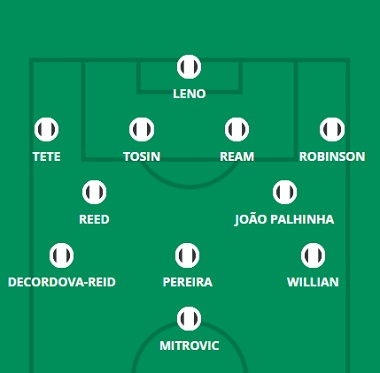
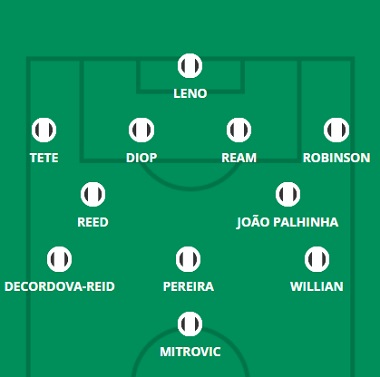
14-20

diff --git a/wolves.html b/wolves.html
@@ -63,15 +63,15 @@
     <hgroup>
         <h1> Provável Escalação</h1>
         <h2 class="direita"> por FabioVascão </h2>
-        <h3 class="direita"> Atualizado em 03/Fevereiro/2023 </h3>
+        <h3 class="direita"> Atualizado em 10/Fevereiro/2023 </h3>
     </hgroup>
 
     <div class="selecao"><p><b><img src="images/logos/wolverhampton.png" width="100rem" height="100rem"/> Wolverhampton</b></p></div>
        
     <div class="escalacao">
         <div class="topo">
-            <h2 class="titulo">Ultimas Notícias</h2> <h4><p> Julen Lopetegui estará novamente sem Boubacar Traore (coxa), Pedro Neto (tornozelo), Chiquinho (joelho) e Sasa Kalajdzic (joelho) na Jornada 22, mas não tem novas preocupações na visita ao Liverpool. O técnico do Wolves tem muitas opções de escolha graças à atividade de transferência de sua equipe em janeiro, embora tenha enfatizado que o último de seus recém-chegados - João Gomes - exigirá algum tempo de adaptação. Matheus Cunha e o em forma Daniel Podence certamente entrarão em jogo após surpresas no Etihad há quinze dias, enquanto Lopetegui poderia reformular completamente sua última linha de frente ao introduzir também Pablo Sarabia desde o pontapé inicial. Mário Lemina e João Moutinho são as opções ao lado de Ruben Neves e Matheus Nunes caso Gomes não esteja pronto, enquanto há uma boa chance de Craig Dawson fazer sua estreia completa, com Max Kilman muito abaixo dos altos patamares que estabeleceu no passado meio-campo.</p></h4><br>
-            <h4><strong>Dúvidas:</strong>Kalajdzic, Neto (Pedro), Chiquinho e Traoré (Boubacar).</h4>
+            <h2 class="titulo">Ultimas Notícias</h2> <h4><p> Julen Lopetegui vai voltar a não poder contar com Boubacar Traore (coxa), Chiquinho (joelho) e Sasa Kalajdzic (joelho) na jornada 23, mas Pedro Neto (tornozelo) está em forma após um longo período de paragem e pode entrar na equipa da jornada após o seu regresso a treinamento. Lopetegui pode receber um corpo de volta, mas pode ficar sem dois de seus titulares na Gameweek 22, com Hwang Hee-chan (tendão da coxa) agora fora por 4-5 semanas e Mario Lemina (knock) "melhor", mas ainda enfrentando avaliação antes do Jogo do Southampton. Adama Traore certamente impressionou ao substituir Hwang na vitória sobre o Liverpool, para que ele pudesse acertar no flanco direito, mas Raul Jimenez e Daniel Podence também poderiam ser acomodados com uma pequena reformulação tática. Lopetegui surpreendentemente enviou suas tropas em um 4-4-2 para a demolição do lado de Jurgen Klopp, mas poderia voltar ao seu habitual 4-3-3/4-2-3-1 aqui, com quaisquer dois de Traore, Pablo Sarabia e Podence flanqueando Matheus Cunha. João Moutinho e o novo garoto João Gomes são os possíveis substitutos de Lemina, se necessário, com Gomes sendo o substituto mais parecido, mas mesmo assim sem nenhum tempo de jogo desde novembro, após sua transferência do Flamengo. Um placar limpo contra os Reds normalmente sugere que uma mudança para a defesa é improvável, mas Hugo Bueno (e seus donos da FPL) se apega à esperança de que a promoção de Rayan Ait-Nouri ao XI titular tenha mais a ver com o último reputação de especialista em Salah.</p></h4><br>
+            <h4><strong>Dúvidas:</strong> Hwang Hee-Chan, Lemina,Kalajdzic, Neto (Pedro), Chiquinho e Traoré (Boubacar).</h4>
         </div>
         <aside>
             <figure>

diff --git a/fulham.html b/fulham.html
@@ -63,15 +63,15 @@
     <hgroup>
         <h1> Provável Escalação</h1>
         <h2 class="direita"> por FabioVascão </h2>
-        <h3 class="direita"> Atualizado em 03/Feveiro/2023 </h3>
+        <h3 class="direita"> Atualizado em 10/Feveiro/2023 </h3>
     </hgroup>
 
     <div class="selecao"><p><b><img src="images/logos/fulham.png" width="80rem" height="90rem"/> Fulham</b></p></div>
        
     <div class="escalacao">
         <div class="topo">
-            <h2 class="titulo">Ultimas Notícias</h2> <h4><p> Marco Silva deu a entender na quinta-feira que espera que todos, exceto o ausente de longa data Neeskens Kebano (Aquiles), estejam aptos para a viagem ao Chelsea, incluindo as novas contratações Cedric Soares e Sasa Lukic - embora a chegada tardia deste último signifique que uma chamada tardia será feito em seu envolvimento. Silva favoreceu a consistência da seleção na ascensão do Fulham na Premier League, com 10 dos XI previstos aqui começando todas as partidas para as quais estiveram disponíveis desde o reinício. A única vaga em disputa foi ao lado de Tim Ream, com Tosin Adarabioyo e Issa Diop dividindo o tempo de jogo no meio-campo. Este último foi titular em sete dos últimos nove jogos do campeonato, mas Tosin foi de longe a escolha dos dois no jogo da copa contra o Sunderland no último fim de semana, então não se surpreenda se houver uma mudança no meio-campo. Manor Solomon é o único dos alas reservas do Fulham que realmente pressiona pela inclusão (Dan James e Harry Wilson lutaram para causar qualquer tipo de impressão), mas Silva ainda pode favorecer o enxerto fora da bola de Bobby DeCordova-Reid para este fora de casa no Chelsea.</p></h4><br>
-            <h4><strong>Dúvidas:</strong> Kebano. </h4>
+            <h2 class="titulo">Ultimas Notícias</h2> <h4><p> Tom Cairney (canela) juntou-se a Neeskens Kebano (Aquiles) nos bastidores da visita ao Nottingham Forest, mas Harrison Reed se livrou de uma pancada no joelho no meio da semana e foi ultrapassado por Marco Silva na sexta-feira. Silva nomeou um XI inicial quase idêntico desde o reinício do Boxing Day, com 10 dos 11 jogadores apresentados neste XI previsto começando todas as partidas para as quais estiveram disponíveis. A única exceção foi no meio-campo, com Tosin Adarabioyo começando as duas partidas da Double Gameweek 19, mas ficando atrás de Issa Diop nos jogos ao redor. O fato de Tosin e Shane Duffy terem começado a eliminatória da FA Cup em Sunderland no meio da semana sugere que Diop novamente mantém seu lugar na liga, principalmente porque ele fez parte da linha de defesa que garantiu uma partida sem sofrer golos na 22ª rodada no Chelsea. Opções de reserva como Harry Wilson, Manor Solomon e Layvin Kurzawa viram o tempo de jogo estendido naquela vitória da copa no nordeste, com nenhum dos regulares de Silva durando mais de 65 minutos - sem dúvida com um olho na visita de Floresta.</p></h4><br>
+            <h4><strong>Dúvidas:</strong> Cairney e Kebano. </h4>
         </div>
         <aside>
             <figure>

diff --git a/westham.html b/westham.html
@@ -63,15 +63,15 @@
     <hgroup>
         <h1> Provável Escalação</h1>
         <h2 class="direita"> por FabioVascão </h2>
-        <h3 class="direita"> Atualizado em 03/Fevereiro/2023 </h3>
+        <h3 class="direita"> Atualizado em 10/Fevereiro/2023 </h3>
     </hgroup>
 
     <div class="selecao"><p><b><img src="images/logos/west-ham.png" width="100rem" height="100rem"/> West Ham</b></p></div>
        
     <div class="escalacao">
         <div class="topo">
-            <h2 class="titulo">Ultimas Notícias</h2> <h4><p> Danny Ings (joelho) "tem chance" de fazer uma recuperação mais rápida do que o esperado para a viagem a Newcastle, de acordo com o técnico David Moyes, mas Kurt Zouma (quadril), Gianluca Scamacca (joelho) e Maxwel Cornet (panturrilha) permanecem Fora. Vimos Moyes adotar uma configuração de 3-4-2-1 ultimamente e, de fato, as últimas três vitórias dos Hammers na liga e na copa ocorreram em um sistema lateral. Thilo Kehrer e Ben Johnson são as opções como zagueiros do lado direito na ausência de Zouma, enquanto a dupla econômica da FPL Emerson Palmieri e Vladimir Coufal serão os favoritos para conseguir o aceno pelos flancos, dadas as limitações de outros candidatos - o decididamente incompleto móvel Aaron Cresswell em particular. Tomas Soucek poderia muito bem ser chamado aqui, dado o quão forte o Newcastle é em lances de bola parada, com Moyes potencialmente imitando a configuração 3-5-2 que ele usou contra um Brentford com domínio aéreo semelhante na terceira rodada da FA Cup. Tal tática deixaria Said Benrahma e Pablo Fornals lutando para dar uma olhada, com o pregado Jarrod Bowen fazendo parceria com Michail Antonio no topo.</p></h4><br>
-            <h4><strong>Dúvidas:</strong> Ings, Zouma, Cornet, e Scamacca.</h4>
+            <h2 class="titulo">Ultimas Notícias</h2> <h4><p> David Moyes disse que não espera Kurt Zouma (quadril), Gianluca Scamacca (joelho), Maxwel Cornet (panturrilha) e Alphonse Areola (coxa) de volta para a partida contra o Chelsea, enquanto Thilo Kehrer foi substituído no intervalo da 22ª rodada por um problema não especificado e é um "problema" de acordo com seu gerente. Ben Johnson provavelmente entrará no lugar de Kehrer se David Moyes mantiver o 3-4-2-1 que o serviu bem nas últimas semanas, com a alternativa de deixar cair um terceiro zagueiro e chamar Pablo Fornals, Tomas Soucek ou Flynn Downes como parte de uma mudança para 4-2-3-1/4-3-3. Danny Ings voltou rapidamente de uma lesão como substituto no Newcastle e pressionará Michail Antonio no topo, enquanto Fornals pode ser promovido fora do banco independentemente da formação: todos sabemos o quão morno Moyes foi com Said Benrahma no passado, e o argelino estava em seu pior momento decepcionante em um desempenho sólido fora de casa em Tyneside.</p></h4><br>
+            <h4><strong>Dúvidas:</strong> Areola, Kehrer, Zouma, Cornet, e Scamacca.</h4>
         </div>
         <aside>
             <figure>
